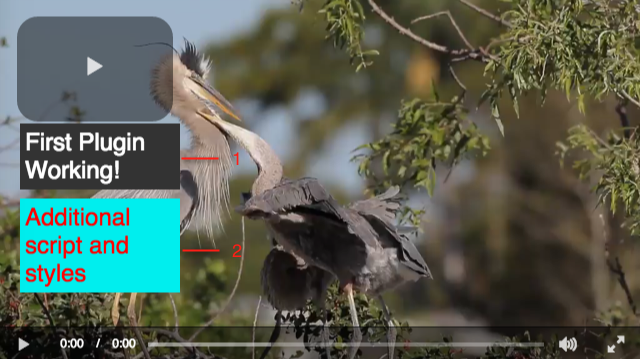
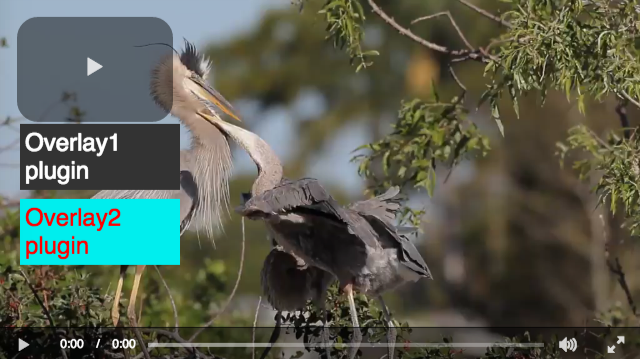
Updates to Dynamic Code Plugin doc

diff --git a/en/video-cloud/brightcove-player/guides/dynamic-code-plugin.html b/en/video-cloud/brightcove-player/guides/dynamic-code-plugin.html
@@ -45,10 +45,11 @@ img<!DOCTYPE html>
 				<!-- Place document intro sentence(s) here -->
 				<p>This guide shows you how to create a bootstrap plugin which adds functionality and styles at runtime. You will want to use this only if you are working with a partner who needs to add JavaScript and CSS to your player without having to re-build all of your players.</p> 
         <p><img src="assets/dynamic-code-plugin/dynamic-code-plugin.png" alt="dynamic-code-plugin" title="dynamic-code-plugin"></p>
-        <p>You will implement this example in two steps:</p>
+        <p>You will implement this example by following these steps:</p>
         <ol>
-          <li>Add the first plugin to the player. This could contain the base functionality for your player.</li>
+          <li>Add the overlay1 plugin to the player. This could contain some base functionality for your player.</li>
           <li>Add the dynamic code plugin which will load additional JavaScript and CSS at runtime.</li>
+          <li>Use the dynamic code plugin to dynamically load the overlay2 plugin.</li>
         </ol>
       </div>
 				
@@ -57,84 +58,82 @@ img<!DOCTYPE html>
         <p>You can create your Brightcove player using Video Cloud Studio. There you can quickly create a player, associate a video and publish the player. For details, see the <a href="//docs.brightcove.com/en/video-cloud/brightcove-player/getting-started/quick-start-bc-player.html">Quick Start to Brightcove player</a> document.</p>
         <p>After you have published the player, copy the <strong>In-Page Embed Code</strong> for the published player. It should look something like this:</p>
 
-        <p><code data-gist-id="869b1ca879e55a5c9c12" data-gist-hide-footer="true" data-gist-line="18-25"></code></p>
+        <p><code data-gist-id="869b1ca879e55a5c9c12" data-gist-hide-footer="true" data-gist-line="19-26"></code></p>
         <p class="BCL-aside">Notice that we have added an <code>id</code> attribute so that we can get a reference to the player in later steps.</p>
         <p>Next, you will use the embed-in-page implementation to test that the plugins are working. Then, you will switch to the iframe implementation.</p>
       </div>
       
-      <div id="firstplugin" class="section">
-        <h2>First plugin</h2>
-        <p>With the embed-in-page implementation, you will add the <code>firstPlugin</code> plugin to your player. This could be the base functionality that you have added to your player. You can keep the following files a local folder for testing. Later, you will place this in an internet accessible URL.</p>
+      <div id="overlay1plugin" class="section">
+        <h2>Overlay1 plugin</h2>
+        <p>With the embed-in-page implementation, you will first add the <code>overlay1</code> plugin to your player. This could be the base functionality that you have added to your player. You should place this in an internet accessible URL.</p>
         
         <h3>The JavaScript code</h3>
-        <p>Here is the JavaScript code for the <code>firstPlugin</code> plugin.</p>
-        <p><code data-gist-id="869b1ca879e55a5c9c12" data-gist-hide-footer="true" data-gist-line="59-65"></code></p>
+        <p>Here is the JavaScript code for the <code>overlay1</code> plugin.</p>
+        <p><code data-gist-id="869b1ca879e55a5c9c12" data-gist-hide-footer="true" data-gist-line="55-61"></code></p>
         
         <h3>The stylesheet</h3>
-        <p>This example uses styles for the <code>firstPlugin</code> text box.</p>
-        <p><code data-gist-id="869b1ca879e55a5c9c12" data-gist-hide-footer="true" data-gist-line="69-78"></code></p>
+        <p>This example uses styles for the <code>overlay1</code> text box.</p>
+        <p><code data-gist-id="869b1ca879e55a5c9c12" data-gist-hide-footer="true" data-gist-line="65-74"></code></p>
         
         <h3>The HTML code</h3>
         <p>Add the following HTML to your page code.</p>
         <ol>
-          <p><li>For the <code>firstPlugin</code> plugin, add a link to the CSS file and include the JavaScript file .</li></p>
-          <p><code data-gist-id="869b1ca879e55a5c9c12" data-gist-hide-footer="true" data-gist-line="1-28" data-gist-highlight-line="7,28"></code></p>
+          <p><li>For the <code>overlay1</code> plugin, add a link to the CSS file and include the JavaScript file .</li></p>
+          <p><code data-gist-id="869b1ca879e55a5c9c12" data-gist-hide-footer="true" data-gist-line="1-29" data-gist-highlight-line="7,29"></code></p>
           <p><li>After the code above, add a <code>script</code> section as follows:</li></p>
           <ul>
-            <li>Line 36: Waits for your player to load.</li>
-            <li>Line 37: Gets a reference to your player.</li>
-            <li>Line 39: Initializes the <code>firstPlugin</code> plugin.</li>
+            <li>Line 37: Waits for your player to load.</li>
+            <li>Line 38: Gets a reference to your player.</li>
+            <li>Line 40: Initializes the <code>overlay1</code> plugin.</li>
           </ul>
-          <p><code data-gist-id="869b1ca879e55a5c9c12" data-gist-hide-footer="true" data-gist-line="33-39,45-47"></code></p>
+          <p><code data-gist-id="869b1ca879e55a5c9c12" data-gist-hide-footer="true" data-gist-line="34-40,46-48"></code></p>
         </ol>
         <p>When you run this code in the browser, you should see the first plugin text displayed.</p>
-        <p><img src="assets/dynamic-code-plugin/first-plugin.png" alt="first-plugin" title="first-plugin"></p>
+        <p><img src="assets/dynamic-code-plugin/overlay1-plugin.png" alt="overlay1-plugin" title="overlay1-plugin"></p>
       </div>
         
       <div id="dynamiccodeplugin" class="section">
         <h2>Dynamic code plugin</h2>
-        <p>Now, you are ready to add the dynamic code plugin to the player. This will allow you or a partner to add JavaScript and CSS to your player at runtime without having to rebuild the player. You can keep the following files a local folder for testing. Later, you will place this in an internet accessible URL.</p>
+        <p>Now, you are ready to add the dynamic code plugin to the player. This will allow you or a partner to add JavaScript and CSS to your player at runtime without having to rebuild the player.</p>
         
         <h3>The JavaScript code</h3>
         <p>Here is the JavaScript code which will load your dynamic code and styles at runtime.</p>
         <ul>
-          <li>Line 89: Gets a reference to the player.</li>
-          <li>Lines 95,98: Dynamically create a <code>&lt;script&gt;</code> and a <code>&lt;link&gt;</code> element in your HTML code.</li>
-          <li>Line 100: Sets a flag so that the script load handler is only excuted once.</li>
-          <li>Lines 104-113: Define the <code>script.onload()</code> handler function to call the <code>init()</code> function when the runtime resources have been downloaded.</li>
-          <li>Lines 118,122: Define the URL to the custom JavaScript and CSS files to be loaded dynamically. </li>
-          <li>Lines 124-125: Add attributes and values you just defined to the Define the URL to the <code>&lt;script&gt;</code> and a <code>&lt;link&gt;</code> elements.</li>
-          <li>Line 129: Initializes the plugin with your dynamic code and styles. You will add this <code>secondPlugin</code> code to your HTML in the next section.</li>
+          <li>Line 85: Gets a reference to the player.</li>
+          <li>Lines 91,93: Dynamically create a <code>&lt;script&gt;</code> and a <code>&lt;link&gt;</code> element in your HTML code.</li>
+          <li>Line 96: Sets a flag so that the script load handler is only excuted once.</li>
+          <li>Lines 100-109: Define the <code>script.onload()</code> handler function to call the <code>init()</code> function when the runtime resources have been downloaded.</li>
+          <li>Lines 114,118: Define the URL to the custom JavaScript and CSS files to be loaded dynamically.</li>
+          <li>Lines 120-121: Add attributes and values you just defined to the Define the URL to the <code>&lt;script&gt;</code> and a <code>&lt;link&gt;</code> elements.</li>
+          <li>Line 125: Initializes the plugin with your dynamic code and styles. You will add this <code>secondPlugin</code> code to your HTML in the next section.</li>
         </ul>
-        <p><code data-gist-id="869b1ca879e55a5c9c12" data-gist-hide-footer="true" data-gist-line="82-131"></code></p>
+        <p><code data-gist-id="869b1ca879e55a5c9c12" data-gist-hide-footer="true" data-gist-line="78-127"></code></p>
       </div>
         
-      <div id="dynamiccode" class="section">
-        <h2>Dynamic code</h2>
-        <p>This section shows you how to easily add JavaScript functionality and custom styles to your player at runtime. You can keep the following files a local folder for testing. Later, you will place this in an internet accessible URL.</p>
-        <h3>Dynamic JavaScript code</h3>
-        <p>This plugin contains any JavaScript code that you want to load at runtime. In this example, it will create another text box overlay in the player, below the first.</p>
-        <p><code data-gist-id="869b1ca879e55a5c9c12" data-gist-hide-footer="true" data-gist-line="135-141"></code></p>
+      <div id="overlay1plugin" class="section">
+        <h2>Overlay2 plugin</h2>
+        <p>This section shows you how to easily add JavaScript functionality and custom styles to your player at runtime.</p>
+        <h3>The JavaScript code</h3>
+        <p>This <code>overlay2</code> plugin contains any JavaScript code that you want to load at runtime. In this example, it will create another text box overlay in the player, below the first.</p>
+        <p><code data-gist-id="869b1ca879e55a5c9c12" data-gist-hide-footer="true" data-gist-line="131-137"></code></p>
         
-        <h3>Dynamic styles</h3>
-        <p>This example uses styles for the <code>secondPlugin</code> text box.</p>
-        <p><code data-gist-id="869b1ca879e55a5c9c12" data-gist-hide-footer="true" data-gist-line="69-78"></code></p>
+        <h3>The stylesheet</h3>
+        <p>This example uses styles for the <code>overlay2</code> text box.</p>
+        <p><code data-gist-id="869b1ca879e55a5c9c12" data-gist-hide-footer="true" data-gist-line="141-150"></code></p>
     
         <h3>The HTML code</h3>
         <p>Add the following HTML to your page code.</p>
         <ol>
-          <p><li>For the <code>dynamicCode</code> plugin, include the JavaScript file.</li></p>
-          <p><code data-gist-id="869b1ca879e55a5c9c12" data-gist-hide-footer="true" data-gist-line="18-31" data-gist-highlight-line="31"></code></p>
-          <p><li>After the code above, add code to the <code>script</code> section as follows:</li></p>
+          <p><li>Include the JavaScript file for the <code>dynamicCode</code> plugin.</li></p>
+          <p><code data-gist-id="869b1ca879e55a5c9c12" data-gist-hide-footer="true" data-gist-line="19-32" data-gist-highlight-line="31"></code></p>
+          <p><li>Add code to the <code>script</code> section as follows:</li></p>
           <ul>
-            <li>Line 36: Waits for your player to load.</li>
-            <li>Line 37: Gets a reference to your player.</li>
-            <li>Line 39: Initializes the <code>firstPlugin</code> plugin.</li>
+            <li>Lines 42-45: Initialize the <code>dynamicCode</code> plugin to add the specified styles and JavaScript code at runtime.</li>
           </ul>
-          <p><code data-gist-id="869b1ca879e55a5c9c12" data-gist-hide-footer="true" data-gist-line="33-47" data-gist-highlight-line="41-44"></code></p>
+          <p><code data-gist-id="869b1ca879e55a5c9c12" data-gist-hide-footer="true" data-gist-line="34-48" data-gist-highlight-line="42-45"></code></p>
         </ol>
         <p>When you run this code in the browser, you should see the additional text box displayed in the player along with the original plugin text box.</p>
-        <p><img src="assets/dynamic-code-plugin/second-plugin.png" alt="second-plugin" title="second-plugin"></p>
+        <p><img src="assets/dynamic-code-plugin/overlay2-plugin.png" alt="overlay2-plugin" title="overlay2-plugin"></p>
           
       </div>
       
